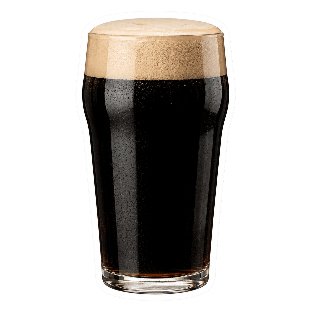
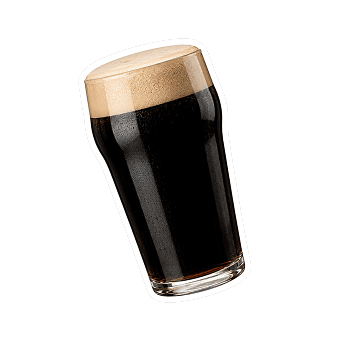
fix(decor): vrais cut-outs détourés (bidons, flèche, pintes propres)
Le client a fourni les bonnes images détourées : les assets Figma précédents
avaient un contour blanc « sticker » (effet pas détouré).

- Pintes blonde & brune : versions propres (sans contour blanc)
- Bidons/fûts métalliques (nouvel objet) : remplacent le shaker sur « Né dans
  un atelier » — clin d'œil à l'atelier
- Flèche dessinée : pointe vers le bouton « Tout l'agenda » (accueil)
- Planche apéro : contour blanc retiré par flood-fill
- Shaker supprimé (contour blanc, pas de version propre)

Changed region(s): [[0.2293, 0.0573, 0.7452, 0.9459]]

diff --git a/components/home/UpcomingEvents.tsx b/components/home/UpcomingEvents.tsx
@@ -3,6 +3,7 @@ import { Button } from '@/components/Button';
 import { SectionHeading } from '@/components/SectionHeading';
 import { EventCard } from '@/components/events/EventCard';
 import { Reveal } from '@/components/Reveal';
+import { DecorObject } from '@/components/decor/DecorObject';
 import { getUpcomingEvents } from '@/lib/events';
 
 /** « Prochains événements » (§4.10) — 3 cartes depuis l'agenda. */
@@ -19,10 +20,18 @@ export function UpcomingEvents() {
             title="Prochains rendez-vous"
             as="h2"
           />
-          <Button href="/evenements" variant="outline" className="shrink-0">
-            Tout l'agenda
-            <ArrowRight aria-hidden="true" />
-          </Button>
+          <div className="relative shrink-0">
+            {/* Flèche dessinée qui pointe vers le bouton (desktop) */}
+            <DecorObject
+              src="/images/decor/fleche.png"
+              float={false}
+              className="absolute -left-24 top-1/2 hidden w-20 -translate-y-1/2 rotate-[8deg] drop-shadow-none lg:block"
+            />
+            <Button href="/evenements" variant="outline">
+              Tout l'agenda
+              <ArrowRight aria-hidden="true" />
+            </Button>
+          </div>
         </div>
 
         {events.length > 0 ? (

diff --git a/components/home/StorySection.tsx b/components/home/StorySection.tsx
@@ -32,10 +32,10 @@ export function StorySection() {
                 />
               </div>
             </OverlapCard>
-            {/* Shaker décoratif (collage) */}
+            {/* Bidons décoratifs (collage — clin d'œil à l'atelier) */}
             <DecorObject
-              src="/images/decor/shaker.png"
-              className="-bottom-9 -left-5 z-20 hidden w-14 [--rot:-12deg] sm:block lg:w-16"
+              src="/images/decor/bidons.png"
+              className="-bottom-10 -left-10 z-20 hidden w-32 [--rot:-4deg] sm:block lg:w-44"
             />
           </Reveal>
 